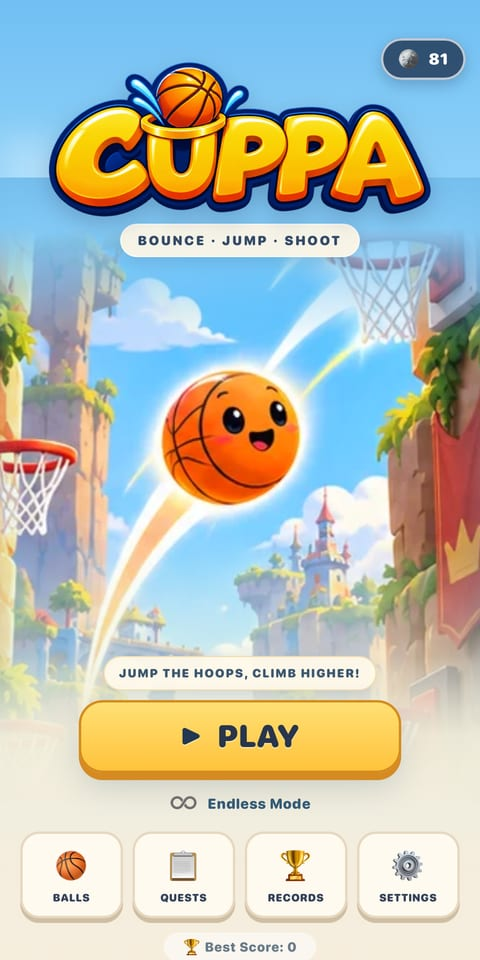
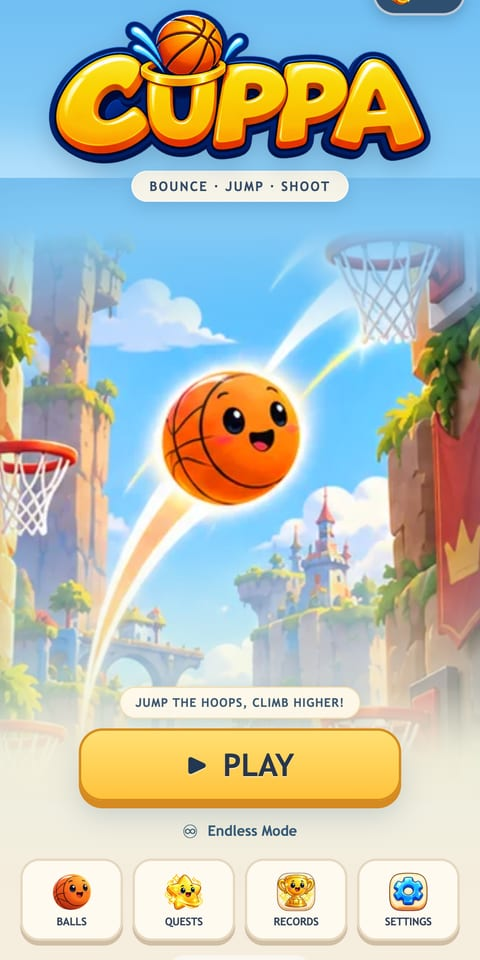
CUPPA: new screenshots and text for the current build
Screenshots with the new art (menu, gameplay, balls, settings) in both
languages; page and card text now mention press power, 8 worlds,
20,000 m, power-ups and 19 balls.

diff --git a/Store/cuppa/index.md b/Store/cuppa/index.md
@@ -4,8 +4,8 @@ game: cuppa
 title: CUPPA
 description: Bounce off the walls, jump higher and drop the ball into colorful hoops.
 lead:
-  tr: "Ekranın soluna ya da sağına dokun, duvarlardan sek ve yüksel. Topu çemberin üstünden içeri düşür, art arda basketlerle Ateş Modu'nu yak ve her denemede değişen parkurda daha yükseğe çık."
-  en: "Tap left or right, bounce off the walls and climb. Drop the ball in from above the rim, chain baskets into Fire Mode and go higher on a course that changes every run."
+  tr: "Ekranın soluna ya da sağına dokun; kısa dokunuş küçük, basılı tutmak yüksek zıplatır. Duvarlardan sek, dönen çelik kollardan kaç ve topu çemberin üstünden içeri düşür. 8 dünyadan geçen 20.000 metrelik parkurda ne kadar yükseğe çıkabilirsin?"
+  en: "Tap left or right; a quick tap is a small hop, holding jumps higher. Bounce off the walls, dodge spinning steel arms and drop the ball in from above the rim. How high can you climb on a 20,000 m course through 8 worlds?"
 chips:
   - { tr: "Arcade", en: "Arcade" }
   - { tr: "Basketbol", en: "Basketball" }
@@ -15,18 +15,18 @@ chips:
 # google_play: https://play.google.com/store/apps/details?id=com.mirogames.cuppa
 features_title: { tr: "Sek, sıçra, basket at", en: "Bounce, jump, shoot" }
 features:
-  - title: { tr: "İki dokunuşlu kontrol", en: "Two-tap controls" }
-    text: { tr: "Sola dokun sola, sağa dokun sağa sıçra. Duvarlar seni hafifçe yukarı iter.", en: "Tap left to jump left, tap right to jump right. Walls give you a gentle push up." }
+  - title: { tr: "Basış gücü", en: "Press power" }
+    text: { tr: "Kısa dokunuş küçük zıplama, basılı tutmak daha yüksek. Yön dokunduğun taraf.", en: "A quick tap is a small hop, hold to jump higher. Tap the side you want to go." }
   - title: { tr: "Gerçek basket kuralı", en: "Real basket rule" }
-    text: { tr: "Top çemberin üstünden girmeli; alttan geçiş sayılmaz. Demirler serttir, top sekmez.", en: "The ball must drop in from above; passing up from below never counts. Rims are solid and don't bounce." }
+    text: { tr: "Top çemberin üstünden girmeli; alttan geçiş sayılmaz. Demirler serttir, top sekmez, içeri yuvarlanır.", en: "The ball must drop in from above; passing up from below never counts. Rims are solid: the ball doesn't bounce, it rolls in." }
+  - title: { tr: "8 dünya, 20.000 metre", en: "8 worlds, 20,000 m" }
+    text: { tr: "Şehir, orman, plaj, çöl, dağ, kış, uzay ve gece şehri; yükseldikçe daha hızlı dönen kollar ve daha çok diken.", en: "City, forest, beach, desert, mountain, winter, space and night city; faster arms and more spikes the higher you go." }
+  - title: { tr: "Güçlendirmeler", en: "Power-ups" }
+    text: { tr: "Yay, kanat, mıknatıs, kalkan, yavaş zaman ve Ateş Modu parkurda seni bekliyor.", en: "Springs, wings, magnets, shields, slow time and Fire Mode are waiting on the course." }
+  - title: { tr: "19 top", en: "19 balls" }
+    text: { tr: "Buz, Ateş, Kral, Şans, Karpuz, Ay ve dahası; her birinin kendi pasifi ve özel gücü var.", en: "Ice, Fire, King, Lucky, Watermelon, Moon and more; each with its own passive and special power." }
   - title: { tr: "Perfect Shot ve Ateş Modu", en: "Perfect Shot and Fire Mode" }
-    text: { tr: "Çembere değmeden gir, puanı ikiye katla. Art arda 5 basket Ateş Modu'nu başlatır.", en: "Swish without touching the rim for double points. Five in a row starts Fire Mode." }
-  - title: { tr: "Dönen engeller", en: "Spinning hazards" }
-    text: { tr: "Yükseldikçe daha hızlı dönen çelik kollar, dikenler ve yaylar yolunu keser.", en: "The higher you go, the faster the steel arms spin, with spikes and springs in your way." }
-  - title: { tr: "Macera ve Sonsuz Mod", en: "Adventure and Endless" }
-    text: { tr: "Macera'da her 100 m bir kontrol noktası; Sonsuz Mod'da tek can.", en: "A checkpoint every 100 m in Adventure; one life in Endless." }
-  - title: { tr: "Toplar ve görevler", en: "Balls and quests" }
-    text: { tr: "Buz, Ateş ve Manyetik topları aç; günlük görevlerle altın kazan.", en: "Unlock the Ice, Fire and Magnet balls; earn gold with daily quests." }
+    text: { tr: "Çembere değmeden gir, puanı ikiye katla. Art arda basketler Ateş Modu'nu başlatır.", en: "Swish without touching the rim for double points. Baskets in a row start Fire Mode." }
 # assets/img/shots/cuppa-tr-01.jpg ... cuppa-en-04.jpg (480x960); the first is shown in the phone frame
 shots: ["01", "02", "03", "04"]
 genre: { tr: "Arcade · Spor", en: "Arcade · Sports" }
